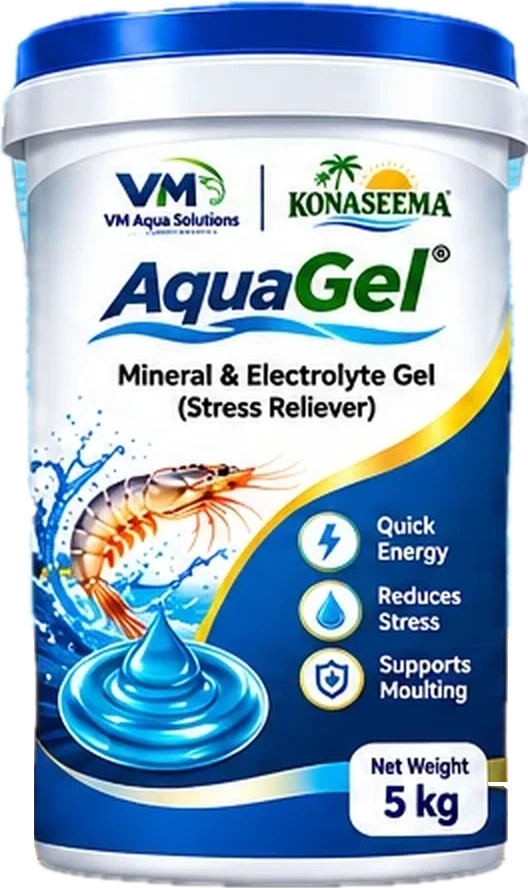
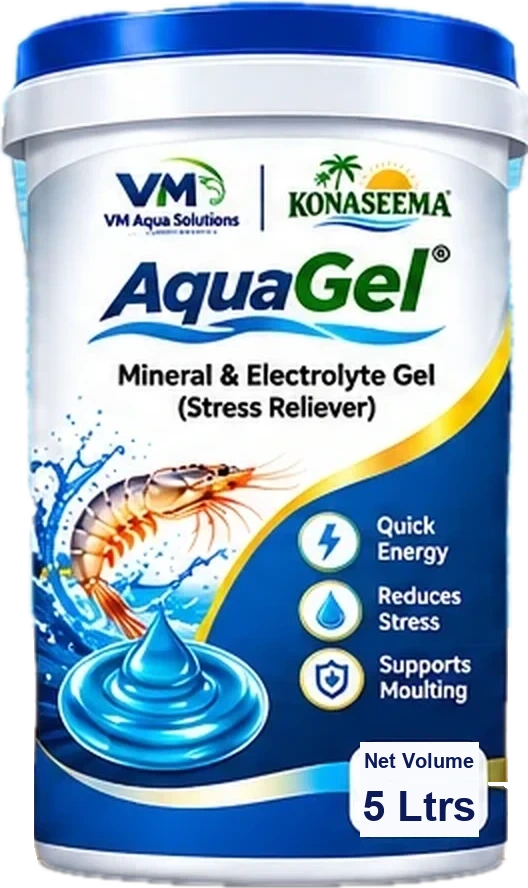
WhatsApp to +91 96667 54456; available packings; all screen sizes
- All WhatsApp buttons and calls now go to +91 96667 54456.
- Pack sizes: Minerals 10/20 kg, Probiotic 1 kg, Zeolite 10 kg,
  Super PS 20 Ltrs, Feed Supplement Gel (AquaGel) 5 Ltrs; pack photos
  updated to match (Net Weight / Net Volume).
- New 'Available packings' panel with WhatsApp order buttons (EN/TE).
- Larger layout on 1600px+ screens and scaling on 2K/4K monitors;
  bigger tap targets and readable small text on phones.

Changed region(s): [[0.6667, 0.8209, 0.9091, 0.9426]]

diff --git a/products.js b/products.js
@@ -35,7 +35,7 @@ const PRODUCTS = [
       'Regular use: 5 Ltrs / Acre',
       'Toxic gas conditions / high Vibrio loads / stress / low plankton: 10 Ltrs / Acre on the 1st day, followed by 5 Ltrs / Acre after 3 days'
     ],
-    pack: '5 Kg',
+    pack: '20 Ltrs',
     te: {
       tag: 'చెరువు స్టెబిలైజర్ & నీటి నాణ్యత మెరుగుదల',
       compNote: 'కనీస బలం: 20 బిలియన్ CFU/ml',
@@ -74,7 +74,7 @@ const PRODUCTS = [
     ],
     benefits: ['Improves growth', 'Increases antibody production', 'Regeneration of red blood cells', 'Synthesis of Vitamin B12'],
     dosage: ['10 kg / Acre or as advised by an aqua consultant'],
-    pack: '10 Kg, 25 Kg',
+    pack: '10 Kg, 20 Kg',
     te: {
       tag: 'సమతుల్య మినరల్ మిశ్రమం',
       benefits: ['పెరుగుదలను మెరుగుపరుస్తుంది', 'యాంటీబాడీ ఉత్పత్తిని పెంచుతుంది', 'ఎర్ర రక్త కణాల పునరుత్పత్తి', 'విటమిన్ B12 సంశ్లేషణ'],
@@ -105,7 +105,7 @@ const PRODUCTS = [
     compNote: 'Grade & particle size: please contact us',
     benefits: ['Adsorbs ammonia (NH₃)', 'Controls toxic gases (H₂S)', 'Improves water clarity', 'Maintains pond stability'],
     dosage: ['As advised by our aqua consultant — contact us for dosage'],
-    pack: '1 Kg',
+    pack: '10 Kg',
     te: {
       tag: 'సహజ జియోలైట్ · నీటి శుద్ధి',
       compNote: 'గ్రేడ్ & కణ పరిమాణం కోసం మమ్మల్ని సంప్రదించండి',
@@ -114,15 +114,15 @@ const PRODUCTS = [
     }
   },
   {
-    id: 'aquagel', name: 'AquaGel', cat: 'feed', tag: 'Mineral & Electrolyte Gel · Stress Reliever', range: true,
+    id: 'aquagel', name: 'AquaGel', cat: 'feed', tag: 'Feed Supplement Gel · Mineral & Electrolyte', range: true,
     img: 'assets/pack-aquagel.webp',
     comp: ['Minerals', 'Electrolytes', 'Gel base'],
     compNote: 'Full composition: please contact us',
     benefits: ['Quick energy', 'Reduces stress', 'Supports moulting'],
     dosage: ['As advised by our aqua consultant — contact us for dosage'],
-    pack: '5 Kg',
+    pack: '5 Ltrs',
     te: {
-      tag: 'మినరల్ & ఎలక్ట్రోలైట్ జెల్ · ఒత్తిడి నివారణ',
+      tag: 'ఫీడ్ సప్లిమెంట్ జెల్ · మినరల్ & ఎలక్ట్రోలైట్',
       compNote: 'పూర్తి కంపోజిషన్ కోసం మమ్మల్ని సంప్రదించండి',
       benefits: ['త్వరిత శక్తి', 'ఒత్తిడిని తగ్గిస్తుంది', 'మౌల్టింగ్కు సహాయపడుతుంది'],
       dosage: ['మా ఆక్వా కన్సల్టెంట్ సలహా మేరకు — మోతాదు కోసం సంప్రదించండి']
@@ -470,4 +470,14 @@ const PROBLEMS = [
   { id: 'gut',      en: 'Gut health / feed intake', te: 'పేగు ఆరోగ్యం / మేత తీసుకోవడం',   products: ['gut-care', 'bioforte', 'gel-bond'] },
   { id: 'red',      en: 'Red disease / tail rot',   te: 'ఎర్ర వ్యాధి / తోక కుళ్ళు',       products: ['redvin', 'all-clear', 'micro-shield'] },
   { id: 'lice',     en: 'Fish lice / parasites',    te: 'చేప పేను / పరాన్నజీవులు',      products: ['lice-care', 'bio-gold'] }
+];
+
+/* ---------- Available packings (shown in the "Available packings" panel) ---------- */
+const PACKINGS = [
+  { id: 'min-power',   en: 'Minerals',            te: 'మినరల్స్',            size: '20 kg' },
+  { id: 'min-power',   en: 'Minerals',            te: 'మినరల్స్',            size: '10 kg' },
+  { id: 'pondbiotic',  en: 'Probiotic',           te: 'ప్రోబయోటిక్',          size: '1 kg' },
+  { id: 'pondzeolite', en: 'Zeolite',             te: 'జియోలైట్',            size: '10 kg' },
+  { id: 'pro-ps',      en: 'Super PS',            te: 'సూపర్ PS',             size: '20 Ltrs' },
+  { id: 'aquagel',     en: 'Feed Supplement Gel', te: 'ఫీడ్ సప్లిమెంట్ జెల్', size: '5 Ltrs' }
 ];

diff --git a/styles.css b/styles.css
@@ -631,3 +631,63 @@ a.contact-item:hover{background:rgba(255,255,255,.12)}
 .group-item:hover{background:linear-gradient(135deg,rgba(37,211,102,.32),rgba(37,211,102,.12))}
 
 .phone-list a{display:flex;align-items:center;gap:10px}
+
+/* =========================================================
+   Available packings
+   ========================================================= */
+.range-size{margin-top:6px;display:inline-block;padding:4px 12px;border-radius:999px;background:var(--gold-l);color:var(--navy);font:800 13px 'Manrope',sans-serif}
+.packings{margin:6px 0 46px;padding:28px;border-radius:24px;background:rgba(255,255,255,.06);border:1px solid rgba(255,255,255,.14);backdrop-filter:blur(6px)}
+.packings-head{display:flex;justify-content:space-between;align-items:flex-end;gap:20px;flex-wrap:wrap;margin-bottom:20px}
+.packings-head h3{margin:0;font:800 clamp(22px,2.6vw,28px)/1.2 var(--font-head);color:#fff}
+.packings-head p{margin:0;color:#c0d4e0;font-size:15px;max-width:460px}
+.packing-grid{display:grid;grid-template-columns:repeat(3,1fr);gap:14px}
+.packing{display:grid;grid-template-columns:64px 1fr auto;grid-template-rows:auto auto;column-gap:14px;row-gap:10px;align-items:center;padding:14px 16px;border-radius:18px;background:#fff;box-shadow:0 10px 26px rgba(0,0,0,.18);transition:transform .25s,box-shadow .25s}
+.packing:hover{transform:translateY(-4px);box-shadow:0 18px 36px rgba(0,0,0,.25)}
+.packing-img{grid-row:1/3;width:64px;height:80px;border:0;padding:4px;border-radius:12px;cursor:pointer;background:radial-gradient(circle at 50% 40%,#fff,color-mix(in srgb,var(--c) 16%,#eef5f8))}
+.packing-img img{width:100%;height:100%;object-fit:contain}
+.packing-txt{min-width:0}
+.packing-txt b{display:block;font:800 16.5px/1.25 var(--font-head);color:var(--navy)}
+.packing-txt small{display:block;font-size:12.5px;color:var(--muted);margin-top:2px}
+.packing-size{justify-self:end;padding:6px 12px;border-radius:12px;background:var(--navy);color:#fff;font:800 16px 'Manrope',sans-serif;white-space:nowrap}
+.packing-order{grid-column:2/4;display:inline-flex;align-items:center;justify-content:center;gap:8px;padding:9px 14px;border-radius:999px;background:var(--wa);color:#fff;font-weight:800;font-size:14px;transition:background .2s}
+.packing-order:hover{background:var(--wa-d)}
+.packing-order svg{width:17px;height:17px}
+@media (max-width:1024px){.packing-grid{grid-template-columns:1fr 1fr}}
+@media (max-width:640px){
+  .packings{padding:18px 14px;border-radius:20px;margin-bottom:34px}
+  .packing-grid{grid-template-columns:1fr}
+  .packing{grid-template-columns:56px 1fr auto;padding:12px}
+  .packing-img{width:56px;height:70px}
+}
+
+/* =========================================================
+   Touch targets, readable small text, large & 4K screens
+   ========================================================= */
+.topline-phone{padding:9px 6px;margin:-9px -6px}
+.phone-list a{min-height:40px;padding:6px 0}
+.site-footer ul a{display:inline-block;padding:5px 0}
+.brand-copy small{font-size:11px}
+@media (max-width:640px){
+  .brand-copy small{font-size:10px;letter-spacing:.12em}
+  .card-star{font-size:11px}
+}
+@media (min-width:1600px){
+  .container{width:min(1440px,calc(100% - 96px))}
+  .nav-wrap{height:86px}
+  .main-nav{gap:32px;font-size:15.5px}
+  .brand-logo{width:64px;height:64px}
+  .brand-copy strong{font-size:19px}
+  .hero{min-height:min(860px,92vh)}
+  .hero h1{font-size:98px}
+  .hero-lead{font-size:20px;max-width:640px}
+  .hero-visual{width:min(560px,100%)}
+  .section-head h2,.why-copy h2,.contact-copy h2{font-size:56px}
+  .section-head>p,.head-side>p{font-size:18px;max-width:480px}
+  .product-grid{grid-template-columns:repeat(auto-fill,minmax(300px,1fr));gap:26px}
+  .card-img{height:280px}
+  .range-pack img{max-height:400px}
+}
+/* 2K / 4K monitors: scale the whole page so it isn't tiny */
+@media (min-width:2200px){ body{zoom:1.22} }
+@media (min-width:3000px){ body{zoom:1.6} }
+.form-foot a{display:inline-block;padding:10px 0}

diff --git a/i18n.js b/i18n.js
@@ -54,6 +54,7 @@ const I18N = {
     'brand.title': 'Our aquaculture <em>product range</em>',
     'brand.desc': 'Five focused products for pond health, faster growth, water quality, disease resistance and higher yield. Tap a pack to see its details.',
     'brand.cta': 'Enquire about the range', 'brand.cta2': 'Become a dealer',
+    'avail.title': 'Available packings', 'avail.sub': 'Pack sizes in stock — tap Order to send your order on WhatsApp.', 'avail.order': 'Order',
 
     'rev.kicker': 'FARMER REVIEWS',
     'rev.title': 'What <em>farmers say</em>',
@@ -83,7 +84,7 @@ const I18N = {
     'form.next': 'Next: pond details', 'form.back': 'Back', 'form.send': 'Send on WhatsApp', 'form.call': 'Or call us now',
     'err.name': 'Please enter your name.', 'err.phone': 'Please enter a valid 10-digit mobile number.',
     'form.ok': 'WhatsApp opened with your enquiry — just tap Send.',
-    'form.privacy': 'Your enquiry goes to VM Aqua Solutions on WhatsApp (+91 99665 90280).',
+    'form.privacy': 'Your enquiry goes to VM Aqua Solutions on WhatsApp (+91 96667 54456).',
 
     'rv.title': 'Share your experience', 'rv.name': 'Your name', 'rv.place': 'Village / District', 'rv.rating': 'Your rating',
     'rv.product': 'Product used', 'rv.text': 'Your review', 'rv.send': 'Send review on WhatsApp',
@@ -155,6 +156,7 @@ const I18N = {
     'brand.title': 'మా ఆక్వాకల్చర్ <em>ఉత్పత్తుల శ్రేణి</em>',
     'brand.desc': 'చెరువు ఆరోగ్యం, వేగవంతమైన పెరుగుదల, నీటి నాణ్యత, వ్యాధి నిరోధకత మరియు అధిక దిగుబడి కోసం ఐదు ప్రత్యేక ఉత్పత్తులు. వివరాల కోసం ప్యాక్పై నొక్కండి.',
     'brand.cta': 'శ్రేణి గురించి విచారించండి', 'brand.cta2': 'డీలర్ అవ్వండి',
+    'avail.title': 'లభ్యమయ్యే ప్యాకింగ్లు', 'avail.sub': 'స్టాక్లో ఉన్న ప్యాక్ సైజులు — వాట్సాప్లో ఆర్డర్ పంపడానికి ఆర్డర్ నొక్కండి.', 'avail.order': 'ఆర్డర్',
 
     'rev.kicker': 'రైతుల అభిప్రాయాలు',
     'rev.title': '<em>రైతులు</em> ఏమంటున్నారు',
@@ -184,7 +186,7 @@ const I18N = {
     'form.next': 'తర్వాత: చెరువు వివరాలు', 'form.back': 'వెనుకకు', 'form.send': 'వాట్సాప్లో పంపండి', 'form.call': 'లేదా ఇప్పుడే కాల్ చేయండి',
     'err.name': 'దయచేసి మీ పేరు నమోదు చేయండి.', 'err.phone': 'దయచేసి సరైన 10 అంకెల మొబైల్ నంబర్ నమోదు చేయండి.',
     'form.ok': 'మీ విచారణతో వాట్సాప్ తెరుచుకుంది — Send నొక్కండి.',
-    'form.privacy': 'మీ విచారణ వాట్సాప్లో VM ఆక్వా సొల్యూషన్స్కు (+91 99665 90280) వెళ్తుంది.',
+    'form.privacy': 'మీ విచారణ వాట్సాప్లో VM ఆక్వా సొల్యూషన్స్కు (+91 96667 54456) వెళ్తుంది.',
 
     'rv.title': 'మీ అనుభవం పంచుకోండి', 'rv.name': 'మీ పేరు', 'rv.place': 'గ్రామం / జిల్లా', 'rv.rating': 'మీ రేటింగ్',
     'rv.product': 'వాడిన ఉత్పత్తి', 'rv.text': 'మీ సమీక్ష', 'rv.send': 'వాట్సాప్లో సమీక్ష పంపండి',

diff --git a/app.js b/app.js
@@ -1,17 +1,17 @@
 (() => {
   'use strict';
-  /* ---- Contact numbers (shown in this order). WhatsApp → 99665 90280, calls → 96667 54456. ---- */
+  /* ---- Contact numbers (shown in this order). WhatsApp and calls → 96667 54456. ---- */
   const WA_NUMBERS = [
     { num: '919666754456', label: '+91 96667 54456' },
     { num: '919948043969', label: '+91 99480 43969' },
     { num: '919966590280', label: '+91 99665 90280' }
   ];
   const WA_GROUP = 'https://chat.whatsapp.com/ISWdOqMF14p33Z9w6kcQQ2';
-  const WA = '919966590280';        // all website WhatsApp messages go to +91 99665 90280 (calls go to +91 96667 54456)
+  const WA = '919666754456';        // all website WhatsApp messages AND calls go to +91 96667 54456
   const $ = (s, el = document) => el.querySelector(s);
   const $$ = (s, el = document) => [...el.querySelectorAll(s)];
   const esc = s => String(s ?? '').replace(/[&<>"']/g, c => ({ '&': '&amp;', '<': '&lt;', '>': '&gt;', '"': '&quot;', "'": '&#39;' }[c]));
-  const waLink = text => `https://wa.me/${WA}?text=${encodeURIComponent(text)}`;   // opens a WhatsApp chat to +91 99665 90280 with the message typed in
+  const waLink = text => `https://wa.me/${WA}?text=${encodeURIComponent(text)}`;   // opens a WhatsApp chat to +91 96667 54456 with the message typed in
   const byId = id => PRODUCTS.find(p => p.id === id);
 
   PRODUCTS.sort((p, q) => (q.range ? 1 : 0) - (p.range ? 1 : 0));
@@ -216,7 +216,19 @@
       <button type="button" class="range-pack" data-open="${p.id}" style="--c:${catColor(p.cat)}">
         <img src="${p.img}" alt="${esc(p.name)} pack" loading="lazy">
         <b>${esc(p.name)}</b><small>${esc(L(p, 'tag'))}</small>
+        <span class="range-size">${esc(p.pack.replace(/,\s*/g, ' · '))}</span>
       </button>`).join('');
+    $('#packingGrid').innerHTML = PACKINGS.map(k => {
+      const p = byId(k.id); if (!p) return '';
+      const label = lang === 'te' ? k.te : k.en;
+      const msg = `${t('wa.hello')},\nI would like to order ${k.en} (${k.size} packing).`;
+      return `<article class="packing" style="--c:${catColor(p.cat)}">
+        <button type="button" class="packing-img" data-open="${p.id}" aria-label="${esc(p.name)}"><img src="${p.img}" alt="" loading="lazy"></button>
+        <div class="packing-txt"><b>${esc(label)}</b><small>${esc(p.name)}</small></div>
+        <span class="packing-size">${esc(k.size)}</span>
+        <a class="packing-order" href="${waLink(msg)}" target="_blank" rel="noopener"><svg viewBox="0 0 32 32" aria-hidden="true"><use href="#wa-icon"/></svg>${esc(t('avail.order'))}</a>
+      </article>`;
+    }).join('');
   }
 
   /* ---------- Catalogue ---------- */
@@ -404,7 +416,7 @@
   });
   document.addEventListener('keydown', e => { if (e.key === 'Escape') closeModals(); });
 
-  /* ---------- WhatsApp: open a chat to +91 99665 90280 with the message already typed ---------- */
+  /* ---------- WhatsApp: open a chat to +91 96667 54456 with the message already typed ---------- */
   function sendWhatsApp(text) {
     const url = waLink(text || `${t('wa.hello')},\nI would like to know more about your products.`);
     const win = window.open(url, '_blank');

diff --git a/index.html b/index.html
@@ -15,7 +15,7 @@
   <link rel="preconnect" href="https://fonts.gstatic.com" crossorigin>
   <link href="https://fonts.googleapis.com/css2?family=DM+Sans:opsz,wght@9..40,400;9..40,500;9..40,700&family=Manrope:wght@600;700;800&family=Noto+Sans+Telugu:wght@400;500;700;800&display=swap" rel="stylesheet">
   <link rel="preload" as="image" href="assets/pond-hero.webp" type="image/webp">
-  <link rel="stylesheet" href="styles.css?v=20261112a" />
+  <link rel="stylesheet" href="styles.css?v=20261112c" />
 </head>
 <body>
   <a class="skip" href="#products">Skip to products</a>
@@ -185,6 +185,10 @@
           </div>
         </div>
         <div class="range-shelf" id="rangeShelf"></div>
+        <div class="packings" id="packings">
+          <div class="packings-head"><h3 data-i18n="avail.title"></h3><p data-i18n="avail.sub"></p></div>
+          <div class="packing-grid" id="packingGrid"></div>
+        </div>
         <figure class="range-banner">
           <img src="assets/range-banner.webp" alt="KONASEEMA aquaculture product range: AQUAMIN Minerals, PondBiotic, PondZeolite, AquaGel and Super PS" loading="lazy" width="1536" height="1024">
         </figure>
@@ -343,7 +347,7 @@
     </div>
   </footer>
 
-  <a class="wa-float" href="https://wa.me/919966590280?text=Hello%20VM%20Aqua%20Solutions%2C%0AI%20would%20like%20to%20know%20more%20about%20your%20products." target="_blank" rel="noopener" aria-label="Chat with us on WhatsApp: +91 99665 90280">
+  <a class="wa-float" href="https://wa.me/919666754456?text=Hello%20VM%20Aqua%20Solutions%2C%0AI%20would%20like%20to%20know%20more%20about%20your%20products." target="_blank" rel="noopener" aria-label="Chat with us on WhatsApp: +91 96667 54456">
     <svg viewBox="0 0 32 32" aria-hidden="true"><use href="#wa-icon"/></svg>
   </a>
   <button class="to-top" id="toTop" aria-label="Back to top">↑</button>
@@ -401,9 +405,9 @@
     <symbol id="wa-icon" viewBox="0 0 32 32"><path fill="currentColor" d="M16 3a13 13 0 0 0-11.2 19.6L3 29l6.6-1.7A13 13 0 1 0 16 3zm0 23.7a10.7 10.7 0 0 1-5.5-1.5l-.4-.2-3.9 1 1-3.8-.2-.4A10.7 10.7 0 1 1 16 26.7zm5.9-8c-.3-.2-1.9-1-2.2-1s-.5-.2-.7.2-.8 1-1 1.2-.4.2-.7.1a8.8 8.8 0 0 1-4.4-3.8c-.3-.6.3-.5.9-1.7a.6.6 0 0 0 0-.5l-1-2.4c-.3-.6-.5-.5-.7-.5h-.6a1.2 1.2 0 0 0-.9.4 3.7 3.7 0 0 0-1.1 2.7 6.4 6.4 0 0 0 1.3 3.4 14.7 14.7 0 0 0 5.7 5c2.1.9 2.9 1 4 .8a3.3 3.3 0 0 0 2.2-1.5 2.7 2.7 0 0 0 .2-1.5c-.1-.2-.3-.3-.7-.5z"/></symbol>
   </svg>
 
-  <script src="i18n.js?v=20261112a"></script>
-  <script src="products.js?v=20261112a"></script>
-  <script src="reviews.js?v=20261112a"></script>
-  <script src="app.js?v=20261112a"></script>
+  <script src="i18n.js?v=20261112c"></script>
+  <script src="products.js?v=20261112c"></script>
+  <script src="reviews.js?v=20261112c"></script>
+  <script src="app.js?v=20261112c"></script>
 </body>
 </html>

diff --git a/README.md b/README.md
@@ -24,6 +24,10 @@ to +91 99665 90280 with the message already typed — the visitor only taps Send
 The "Join our farmers group" links (contact section, footer) open https://chat.whatsapp.com/ISWdOqMF14p33Z9w6kcQQ2.
 Change them in `WA_NUMBERS` / `WA_GROUP` at the top of `app.js` and in `index.html`.
 
+## Available packings
+Edit `PACKINGS` at the end of `products.js` (product, label in English/Telugu, pack size).
+Pack sizes on the product pages come from each product's `pack` field.
+
 ## Files
 | File | What to edit |
 |---|---|
